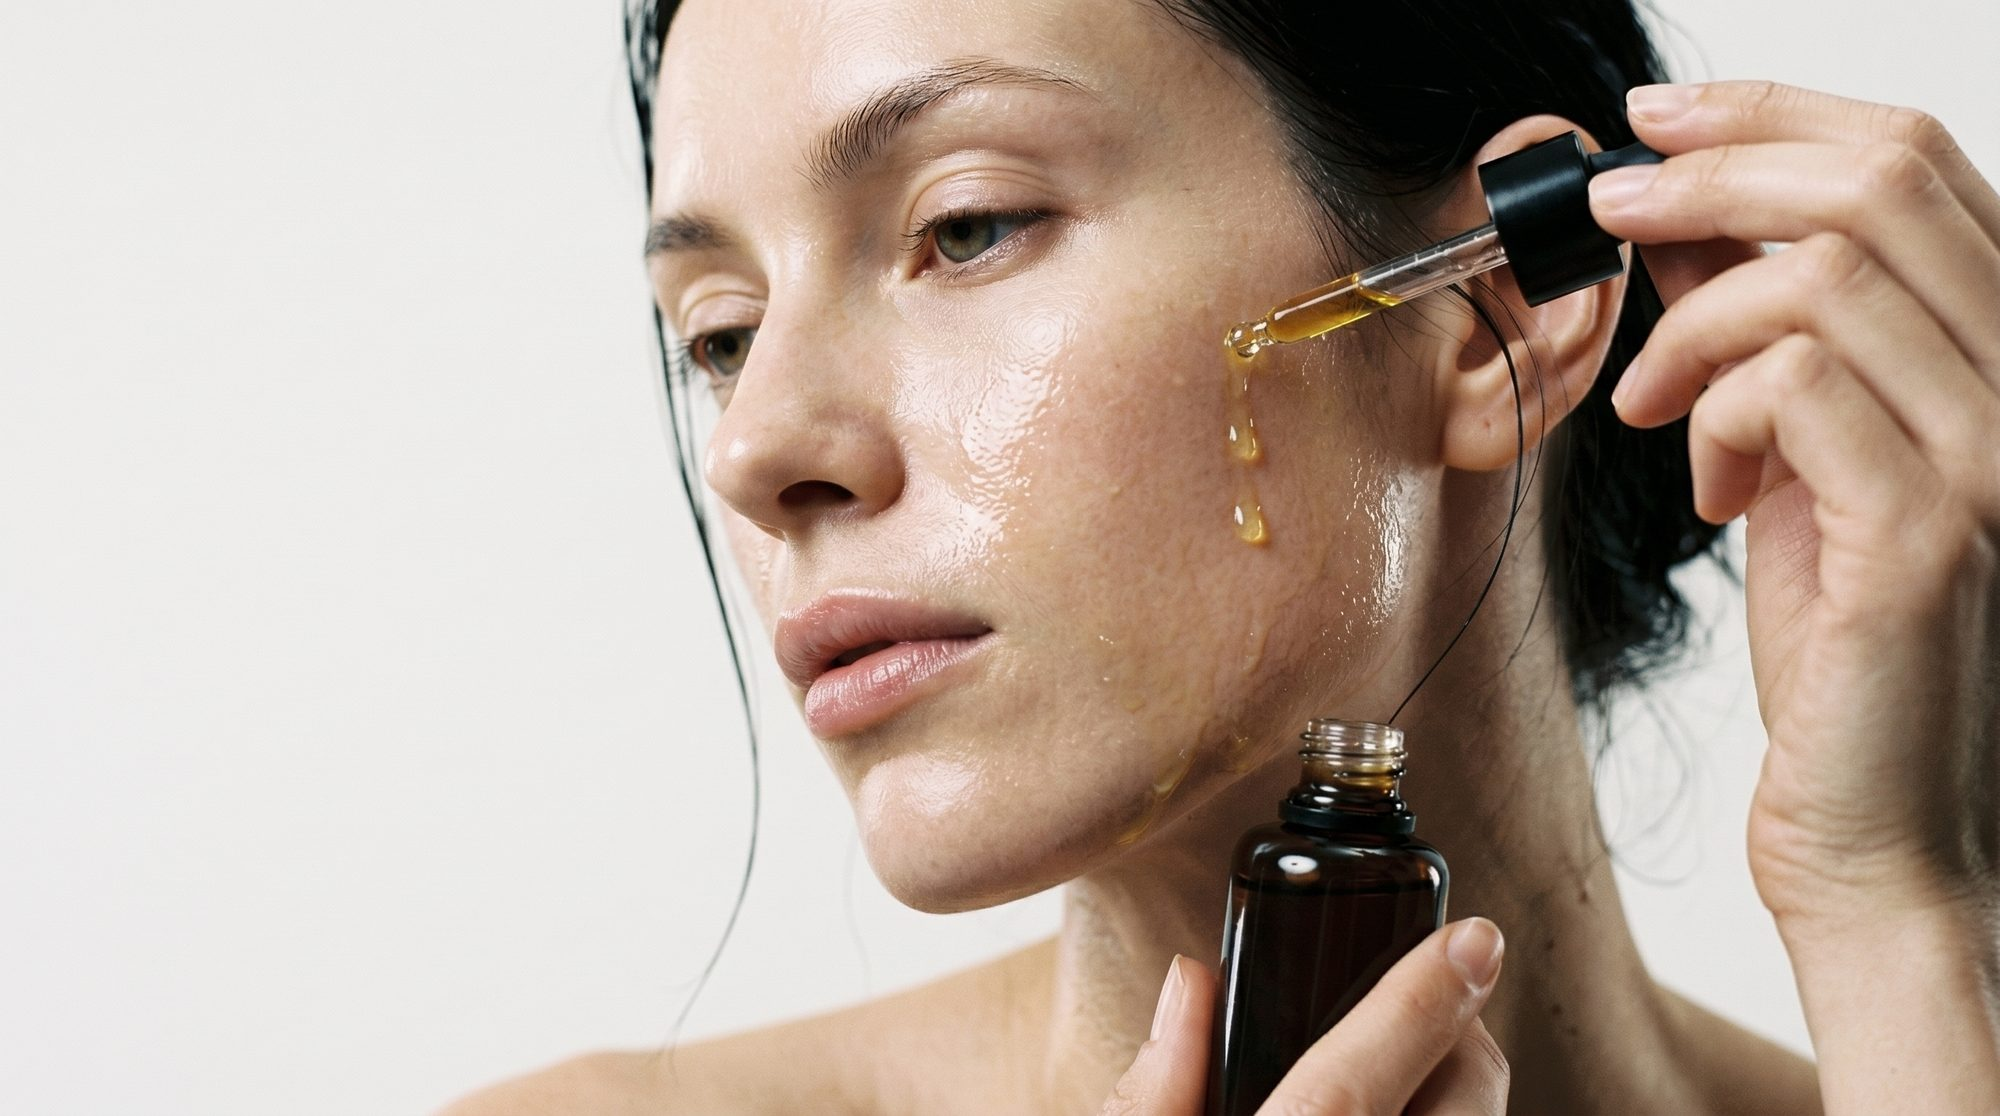
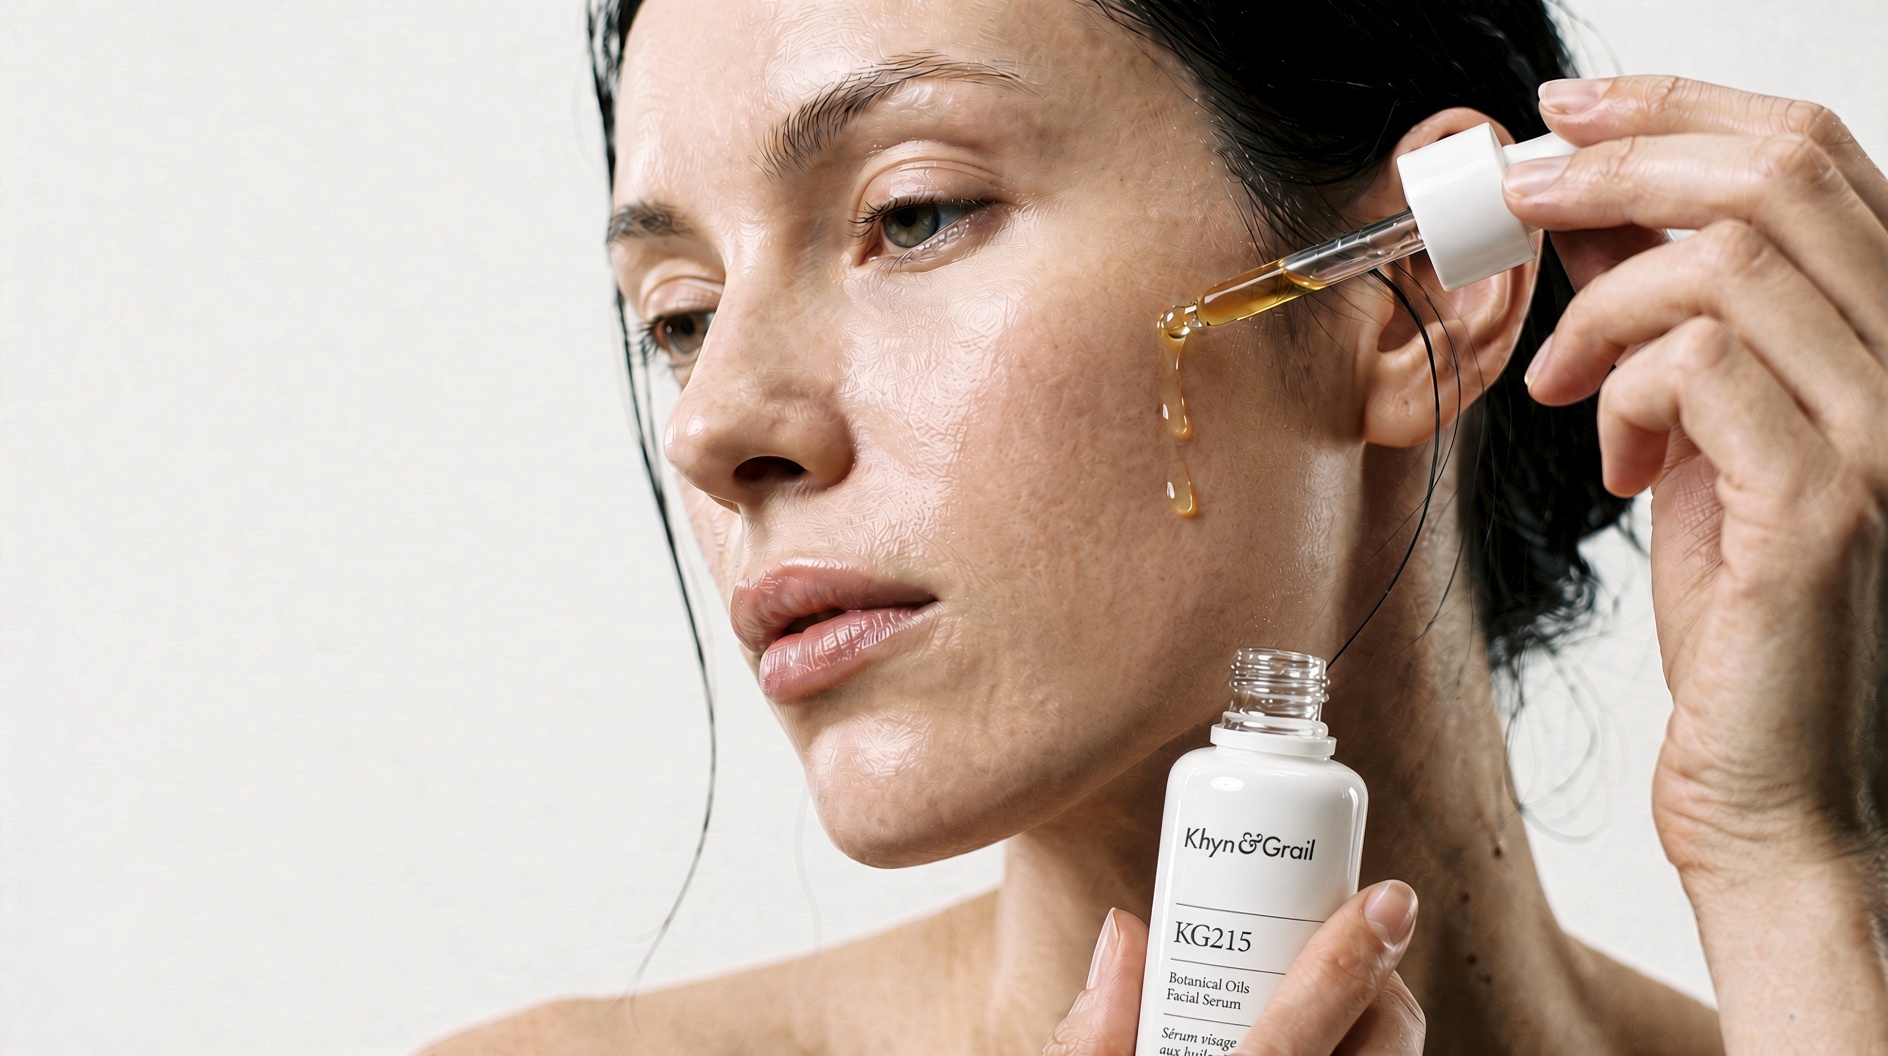
v3: purchase tile on bottle pile, about teaser on ego section, white-dropper hero, coral bottle image

diff --git a/index3.html b/index3.html
@@ -62,7 +62,7 @@
     <main id="main">
       <section class="k3-hero k3-hero--portrait">
         <div class="k3-hero__plate">
-          <img data-parallax="0.06" src="assets/img/hero-portrait.jpg" alt="A woman pressing golden botanical oil into her cheek with a glass dropper" width="2000" height="1116" fetchpriority="high" />
+          <img data-parallax="0.06" src="assets/img/hero-portrait.jpg" alt="A woman pressing golden botanical oil into her cheek with the KG215 white dropper" width="1888" height="1056" fetchpriority="high" />
         </div>
         <div class="k3-hero__inner">
           <h1 class="display k3-hero__title lines" data-lines>
@@ -237,16 +237,25 @@
         </div>
       </section>
 
-      <section class="k3-chapter">
+      <section class="k3-chapter k3-chapter--story">
         <figure class="k3-chapter__plate"><img data-parallax="0.08" src="assets/img/pomegranate.jpg" alt="Macro photograph of pomegranate seeds suspended in clear gel" loading="lazy" /></figure>
         <div class="k3-chapter__inner">
           <h2 class="display k3-big" data-anim="rise">Formulated without compromise. <em>Priced without ego.</em></h2>
+          <p data-anim="rise" style="--d: 120ms">Khyn &amp; Grail comes from SkinSkool &mdash; eight years inside the beauty industry&rsquo;s best-known formulas, understanding exactly what&rsquo;s in them. We stopped asking what a serum should cost, and started asking what it should be.</p>
+          <a class="btn btn--outlineLight" href="about3.html" data-anim="rise" style="--d: 200ms">About Us</a>
         </div>
       </section>
 
       <section class="k3-pile">
         <figure class="k3-pile__plate"><img data-parallax="0.05" src="assets/img/bottles-pile.jpg" alt="A pile of white KG215 bottles" loading="lazy" /></figure>
-        <a class="btn btn--ink k3-pile__btn" href="product3.html" data-anim="rise">Preorder</a>
+        <article class="k3-tile" data-anim="rise">
+          <img class="k3-tile__bottle" src="assets/img/bottle.png" alt="Khyn &amp; Grail KG215 white dropper bottle" width="600" height="1315" loading="lazy" />
+          <p class="k3-tile__sku">KG215</p>
+          <h2 class="h2">Botanical Oils Facial Serum</h2>
+          <span class="stars" aria-hidden="true"><svg viewBox="0 0 28 26" aria-hidden="true"><path d="M14 0l3.11 9.57H27.2l-8.14 5.91 3.11 9.57L14 19.14l-8.14 5.91 3.11-9.57L.82 9.57h10.06L14 0z"/></svg><svg viewBox="0 0 28 26" aria-hidden="true"><path d="M14 0l3.11 9.57H27.2l-8.14 5.91 3.11 9.57L14 19.14l-8.14 5.91 3.11-9.57L.82 9.57h10.06L14 0z"/></svg><svg viewBox="0 0 28 26" aria-hidden="true"><path d="M14 0l3.11 9.57H27.2l-8.14 5.91 3.11 9.57L14 19.14l-8.14 5.91 3.11-9.57L.82 9.57h10.06L14 0z"/></svg><svg viewBox="0 0 28 26" aria-hidden="true"><path d="M14 0l3.11 9.57H27.2l-8.14 5.91 3.11 9.57L14 19.14l-8.14 5.91 3.11-9.57L.82 9.57h10.06L14 0z"/></svg><svg viewBox="0 0 28 26" aria-hidden="true"><path d="M14 0l3.11 9.57H27.2l-8.14 5.91 3.11 9.57L14 19.14l-8.14 5.91 3.11-9.57L.82 9.57h10.06L14 0z"/></svg></span>
+          <p class="k3-tile__lede">27 pressed botanical oils &mdash; grape seed, rosehip, jasmine, frankincense among them. Rich without sitting heavy. Sinks in slow and finishes like skin, not oil.</p>
+          <a class="btn" href="product3.html">Preorder</a>
+        </article>
       </section>
 
       <div class="marquee " aria-hidden="true">

diff --git a/css/index3.css b/css/index3.css
@@ -283,8 +283,14 @@
 .k3-pile { position: relative; min-height: min(90svh, 56rem); display: grid; place-items: center; overflow: hidden; }
 .k3-pile__plate { position: absolute; inset: 0; margin: 0; }
 .k3-pile__plate img { width: 100%; height: 112%; object-fit: cover; }
-.k3-pile__btn { position: relative; font-size: var(--fs-md); padding: 1.1em 3.4em; }
+.k3-pile { padding: var(--s8) var(--s4); }
+.k3-tile { position: relative; width: min(100%, 26rem); padding: var(--s6) var(--s5) var(--s7); background: rgba(247, 242, 231, 0.94); backdrop-filter: blur(6px); text-align: center; display: grid; justify-items: center; gap: var(--s3); box-shadow: 0 30px 80px -30px rgba(18, 18, 18, 0.35); }
+.k3-tile__bottle { width: 6.5rem; height: auto; margin-bottom: var(--s2); }
+.k3-tile__sku { font-weight: 600; letter-spacing: 0.08em; }
+.k3-tile__lede { color: var(--ink-70); max-width: 34ch; }
+.k3-tile .btn { margin-top: var(--s3); }
 .k3-bots .slider__track { padding-inline: var(--s2); }
 .k3-bots .bot { flex-basis: clamp(6.5rem, 9vw, 8.5rem); }
 .k3-bots .slider__arrow--prev { left: -0.5rem; }
 .k3-bots .slider__arrow--next { right: -0.5rem; }
+.k3-chapter--story .k3-chapter__plate::after { background: linear-gradient(90deg, rgba(18, 18, 18, 0.6) 0%, rgba(18, 18, 18, 0.15) 60%, rgba(18, 18, 18, 0) 100%), linear-gradient(0deg, rgba(18, 18, 18, 0.72) 0%, rgba(18, 18, 18, 0.15) 55%, rgba(18, 18, 18, 0) 100%); }
